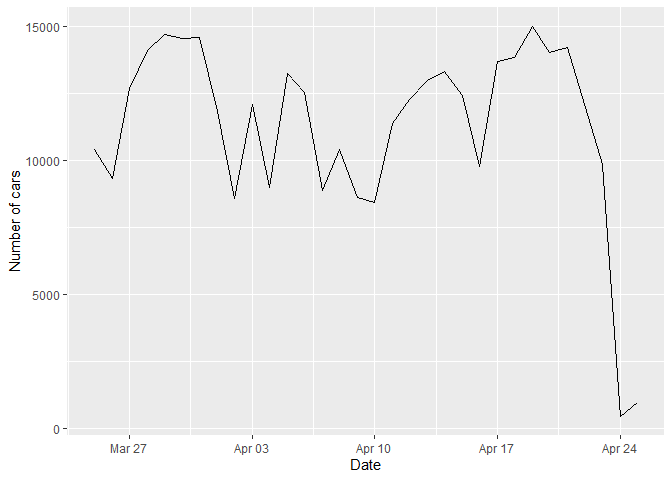
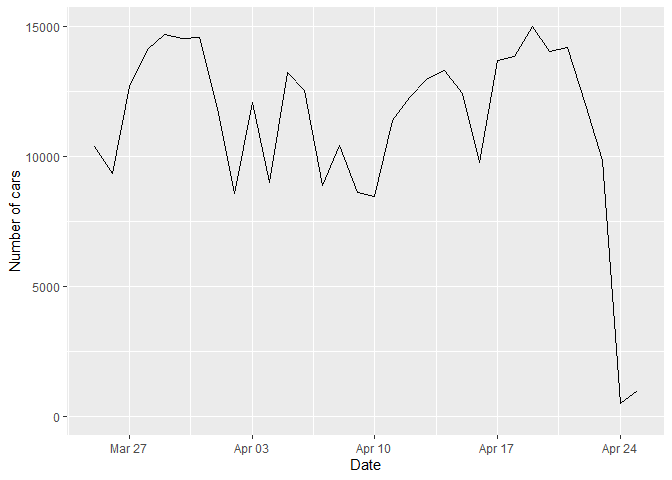
Fixed time zone in the output

diff --git a/README.md b/README.md
@@ -68,26 +68,26 @@ cameras_summary = read_telraam_cameras()
 cameras_summary |> str()
 ```
 
-    ## tibble [6,998 × 19] (S3: tbl_df/tbl/data.frame)
-    ##  $ instance_id        : num [1:6998] 3801 6685 2540 3932 4450 ...
-    ##  $ mac                : num [1:6998] 2.02e+14 2.02e+14 2.02e+14 2.02e+14 2.02e+14 ...
-    ##  $ user_id            : num [1:6998] 4176 2886 2975 4293 4852 ...
-    ##  $ segment_id         : num [1:6998] 9e+09 9e+09 9e+09 9e+09 9e+09 ...
-    ##  $ direction          : logi [1:6998] TRUE FALSE TRUE TRUE TRUE TRUE ...
-    ##  $ status             : chr [1:6998] "stopped" "active" "stopped" "non_active" ...
-    ##  $ manual             : logi [1:6998] FALSE FALSE FALSE FALSE FALSE FALSE ...
-    ##  $ time_added         : POSIXct[1:6998], format: "2021-06-19 14:49:52" "2023-03-13 12:48:05" ...
-    ##  $ time_end           : POSIXct[1:6998], format: "2022-12-30 09:49:37" NA ...
-    ##  $ last_data_package  : POSIXct[1:6998], format: "2022-09-20 06:30:01" "2023-05-16 12:42:39" ...
-    ##  $ first_data_package : POSIXct[1:6998], format: "2021-06-19 15:00:00" "2023-03-13 12:52:02" ...
-    ##  $ pedestrians_left   : logi [1:6998] FALSE TRUE TRUE TRUE TRUE TRUE ...
-    ##  $ pedestrians_right  : logi [1:6998] TRUE TRUE TRUE TRUE TRUE TRUE ...
-    ##  $ bikes_left         : logi [1:6998] TRUE TRUE TRUE TRUE TRUE TRUE ...
-    ##  $ bikes_right        : logi [1:6998] TRUE TRUE TRUE TRUE TRUE TRUE ...
-    ##  $ cars_left          : logi [1:6998] TRUE TRUE TRUE TRUE TRUE TRUE ...
-    ##  $ cars_right         : logi [1:6998] TRUE TRUE TRUE TRUE TRUE TRUE ...
-    ##  $ is_calibration_done: chr [1:6998] "partial" "yes" "yes" "no" ...
-    ##  $ hardware_version   : num [1:6998] 1 2 1 1 1 1 1 1 1 1 ...
+    ## tibble [7,022 × 19] (S3: tbl_df/tbl/data.frame)
+    ##  $ instance_id        : num [1:7022] 1585 5474 4034 6654 5504 ...
+    ##  $ mac                : num [1:7022] 2.02e+14 2.02e+14 2.02e+14 2.02e+14 2.02e+14 ...
+    ##  $ user_id            : num [1:7022] 1540 5944 4407 7154 5926 ...
+    ##  $ segment_id         : num [1:7022] 9e+09 9e+09 9e+09 9e+09 9e+09 ...
+    ##  $ direction          : logi [1:7022] TRUE TRUE TRUE FALSE FALSE FALSE ...
+    ##  $ status             : chr [1:7022] "non_active" "active" "non_active" "active" ...
+    ##  $ manual             : logi [1:7022] FALSE FALSE FALSE FALSE FALSE FALSE ...
+    ##  $ time_added         : POSIXct[1:7022], format: "2020-09-23 14:19:36" "2022-06-10 17:52:12" ...
+    ##  $ time_end           : POSIXct[1:7022], format: NA NA ...
+    ##  $ last_data_package  : POSIXct[1:7022], format: "2023-05-13 06:57:11" "2023-05-17 16:39:43" ...
+    ##  $ first_data_package : POSIXct[1:7022], format: "2020-09-23 15:00:00" "2022-06-10 17:52:30" ...
+    ##  $ pedestrians_left   : logi [1:7022] TRUE FALSE TRUE TRUE TRUE FALSE ...
+    ##  $ pedestrians_right  : logi [1:7022] TRUE TRUE TRUE TRUE TRUE TRUE ...
+    ##  $ bikes_left         : logi [1:7022] TRUE TRUE TRUE TRUE TRUE TRUE ...
+    ##  $ bikes_right        : logi [1:7022] TRUE TRUE TRUE TRUE TRUE TRUE ...
+    ##  $ cars_left          : logi [1:7022] TRUE TRUE TRUE TRUE TRUE TRUE ...
+    ##  $ cars_right         : logi [1:7022] TRUE TRUE TRUE TRUE TRUE TRUE ...
+    ##  $ is_calibration_done: chr [1:7022] "yes" "yes" "yes" "no" ...
+    ##  $ hardware_version   : num [1:7022] 1 1 1 1 1 1 1 1 1 1 ...
 
 ### Segments Location
 
@@ -100,9 +100,9 @@ my_segments = read_telraam_segments()
 my_segments |> str()
 ```
 
-    ## Classes 'sf' and 'data.frame':   5772 obs. of  2 variables:
+    ## Classes 'sf' and 'data.frame':   5792 obs. of  2 variables:
     ##  $ oidn    : num  9e+09 9e+09 9e+09 9e+09 9e+09 ...
-    ##  $ geometry:sfc_MULTILINESTRING of length 5772; first list element: List of 1
+    ##  $ geometry:sfc_MULTILINESTRING of length 5792; first list element: List of 1
     ##   ..$ : num [1:5, 1:2] 3.3 3.3 3.3 3.3 3.3 ...
     ##   ..- attr(*, "class")= chr [1:3] "XY" "MULTILINESTRING" "sfg"
     ##  - attr(*, "sf_column")= chr "geometry"
@@ -165,7 +165,7 @@ data |>
     ##  $ pedestrian_lft: num  1.24 2.9 0 1.59 3.89 ...
     ##  $ pedestrian_rgt: num  0 2.55 5.42 1.33 18.73 ...
     ##  $ direction     : num  1 1 1 1 1 1 1 1 1 1 ...
-    ##  $ timezone      : chr  "Europe/Brussels" "Europe/Brussels" "Europe/Brussels" "Europe/Brussels" ...
+    ##  $ timezone      : chr  "Europe/London" "Europe/London" "Europe/London" "Europe/London" ...
     ##  $ datetime      : POSIXct, format: "2023-03-25 07:00:00" "2023-03-25 08:00:00" ...
     ##  $ day           : num  6 6 6 6 6 6 6 6 6 6 ...
     ##  $ hr            : int  7 8 9 10 11 12 13 14 15 16 ...
@@ -245,6 +245,8 @@ data |>
   labs(x="Date", y="Number of cars")
 ```
 
+    ## Warning: Removed 1 row containing missing values (`geom_line()`).
+
 ![](README_files/figure-gfm/cars_per_day-1.png)<!-- -->
 
 #### Directional flows
@@ -264,18 +266,18 @@ dir_data
 ```
 
     ## # A tibble: 5,760 × 10
-    ##    segment_id date       uptime timezone        datetime              day    hr
-    ##         <dbl> <date>      <dbl> <chr>           <dttm>              <dbl> <int>
-    ##  1 9000003890 2023-03-25  0.762 Europe/Brussels 2023-03-25 07:00:00     6     7
-    ##  2 9000003890 2023-03-25  0.762 Europe/Brussels 2023-03-25 07:00:00     6     7
-    ##  3 9000003890 2023-03-25  0.762 Europe/Brussels 2023-03-25 07:00:00     6     7
-    ##  4 9000003890 2023-03-25  0.762 Europe/Brussels 2023-03-25 07:00:00     6     7
-    ##  5 9000003890 2023-03-25  0.762 Europe/Brussels 2023-03-25 07:00:00     6     7
-    ##  6 9000003890 2023-03-25  0.762 Europe/Brussels 2023-03-25 07:00:00     6     7
-    ##  7 9000003890 2023-03-25  0.762 Europe/Brussels 2023-03-25 07:00:00     6     7
-    ##  8 9000003890 2023-03-25  0.762 Europe/Brussels 2023-03-25 07:00:00     6     7
-    ##  9 9000003890 2023-03-25  0.764 Europe/Brussels 2023-03-25 08:00:00     6     8
-    ## 10 9000003890 2023-03-25  0.764 Europe/Brussels 2023-03-25 08:00:00     6     8
+    ##    segment_id date       uptime timezone      datetime              day    hr
+    ##         <dbl> <date>      <dbl> <chr>         <dttm>              <dbl> <int>
+    ##  1 9000003890 2023-03-25  0.762 Europe/London 2023-03-25 07:00:00     6     7
+    ##  2 9000003890 2023-03-25  0.762 Europe/London 2023-03-25 07:00:00     6     7
+    ##  3 9000003890 2023-03-25  0.762 Europe/London 2023-03-25 07:00:00     6     7
+    ##  4 9000003890 2023-03-25  0.762 Europe/London 2023-03-25 07:00:00     6     7
+    ##  5 9000003890 2023-03-25  0.762 Europe/London 2023-03-25 07:00:00     6     7
+    ##  6 9000003890 2023-03-25  0.762 Europe/London 2023-03-25 07:00:00     6     7
+    ##  7 9000003890 2023-03-25  0.762 Europe/London 2023-03-25 07:00:00     6     7
+    ##  8 9000003890 2023-03-25  0.762 Europe/London 2023-03-25 07:00:00     6     7
+    ##  9 9000003890 2023-03-25  0.764 Europe/London 2023-03-25 08:00:00     6     8
+    ## 10 9000003890 2023-03-25  0.764 Europe/London 2023-03-25 08:00:00     6     8
     ## # ℹ 5,750 more rows
     ## # ℹ 3 more variables: road_dir <chr>, type <chr>, flow <dbl>
 
@@ -289,7 +291,13 @@ dir_data |>
   ggplot(aes(x=hr,y=flow,col=road_dir))+
   geom_line(aes(group=factor(date)),alpha = 0.2)+
   stat_summary(fun = median,geom = "line",linewidth=1)+
-  facet_grid(.~road_dir)
+  facet_grid(.~road_dir)+
+  labs(x = "Hour", y = "Cars per hour")+
+  theme(legend.position = "none")
 ```
+
+    ## Warning: Removed 2 rows containing non-finite values (`stat_summary()`).
+
+    ## Warning: Removed 2 rows containing missing values (`geom_line()`).
 
 ![](README_files/figure-gfm/directional_plot_car-1.png)<!-- -->
